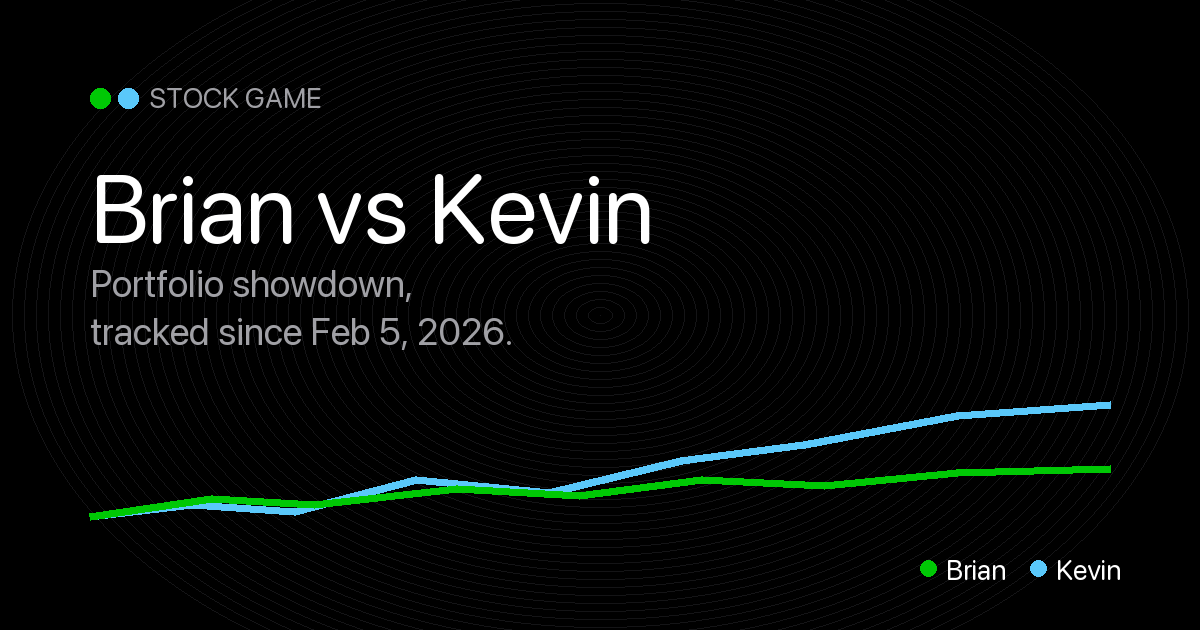
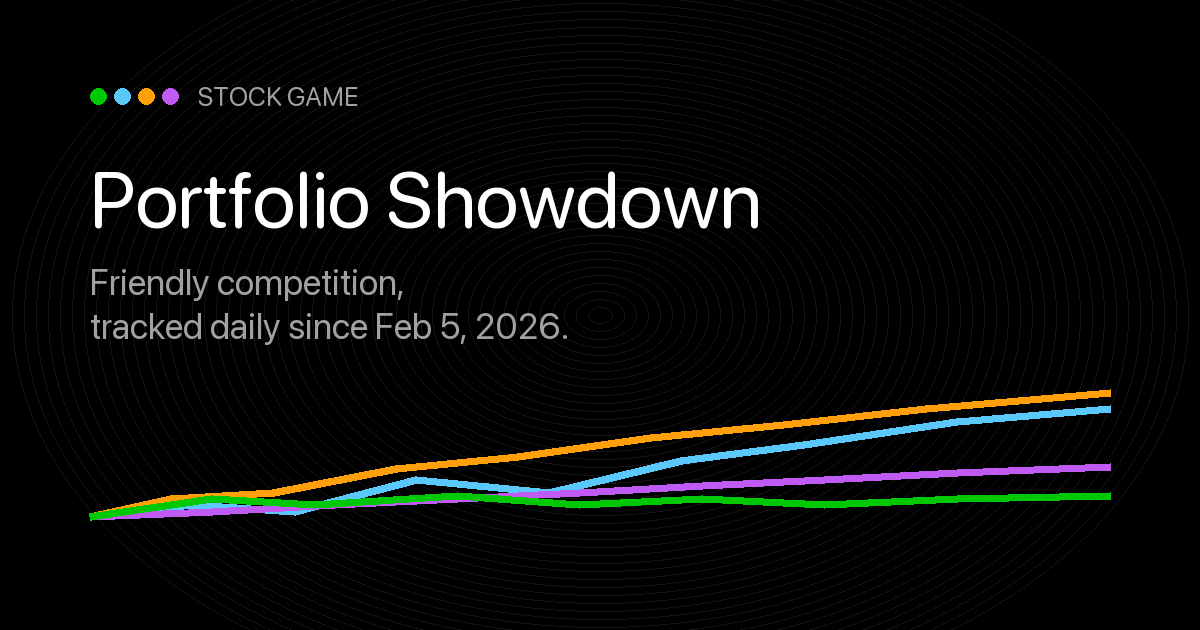
Drop player names from OG card and metadata
Title was "Brian vs Kevin" — accurate when there were two of us, awkward
now that there are four. Generalized to "Stock Game — Portfolio Showdown"
in <title>, OpenGraph, and Twitter card metadata, and rebuilt og.png
with all four player colors in the brand mark plus four diverging lines
(Rick orange leading, Kevin blue, Lee purple, Brian green).

This way the link preview stays correct as players come and go without
having to redo the metadata each time.

Note: iMessage caches preview cards on Apple's servers for ~24h, so
already-sent messages keep showing the old card until Apple refreshes.
New shares of the URL pick up the new card immediately.

diff --git a/app/layout.tsx b/app/layout.tsx
@@ -18,9 +18,9 @@ const SITE_URL = siteUrl();
 
 export const metadata: Metadata = {
   metadataBase: new URL(SITE_URL),
-  title: "Stock Game — Brian vs Kevin",
+  title: "Stock Game — Portfolio Showdown",
   description:
-    "A friendly portfolio showdown between Brian and Kevin, tracked daily since Feb 5, 2026.",
+    "A friendly stock-picking competition tracked daily since Feb 5, 2026.",
   manifest: "/manifest.webmanifest",
   appleWebApp: {
     capable: true,
@@ -33,23 +33,23 @@ export const metadata: Metadata = {
   openGraph: {
     type: "website",
     siteName: "Stock Game",
-    title: "Stock Game — Brian vs Kevin",
+    title: "Stock Game — Portfolio Showdown",
     description:
-      "Portfolio showdown, tracked daily since Feb 5, 2026. Robinhood-style charts, who's winning, what's driving it.",
+      "A friendly stock-picking competition tracked daily since Feb 5, 2026. Robinhood-style charts, who's winning, what's driving it.",
     images: [
       {
         url: "/og.png",
         width: 1200,
         height: 630,
-        alt: "Stock Game — Brian vs Kevin",
+        alt: "Stock Game — Portfolio Showdown",
       },
     ],
   },
   twitter: {
     card: "summary_large_image",
-    title: "Stock Game — Brian vs Kevin",
+    title: "Stock Game — Portfolio Showdown",
     description:
-      "Portfolio showdown, tracked daily since Feb 5, 2026.",
+      "A friendly stock-picking competition tracked daily since Feb 5, 2026.",
     images: ["/og.png"],
   },
   icons: {

diff --git a/scripts/make-og.py b/scripts/make-og.py
@@ -9,6 +9,8 @@ W, H = 1200, 630
 BG = (0, 0, 0)
 BRIAN = (0, 200, 5)
 KEVIN = (90, 200, 250)
+RICK = (255, 159, 10)
+LEE = (191, 90, 242)
 FG = (255, 255, 255)
 DIM = (160, 160, 165)
 
@@ -55,26 +57,26 @@ def main():
                   for p in pts]
         draw.line(scaled, fill=color, width=width, joint="curve")
 
+    # 4 diverging lines — winner most upward, others varied
+    line([(0.00, 0.85), (0.08, 0.74), (0.18, 0.70), (0.30, 0.55), (0.42, 0.48),
+          (0.55, 0.36), (0.68, 0.28), (0.82, 0.18), (1.00, 0.08)], RICK)
     line([(0.00, 0.85), (0.10, 0.78), (0.20, 0.82), (0.32, 0.62), (0.45, 0.70),
-          (0.58, 0.50), (0.70, 0.40), (0.85, 0.22), (1.00, 0.15)], KEVIN)
-    line([(0.00, 0.85), (0.12, 0.74), (0.22, 0.78), (0.36, 0.68), (0.48, 0.72),
-          (0.60, 0.62), (0.72, 0.66), (0.85, 0.58), (1.00, 0.55)], BRIAN)
+          (0.58, 0.50), (0.70, 0.40), (0.85, 0.26), (1.00, 0.18)], KEVIN)
+    line([(0.00, 0.85), (0.12, 0.82), (0.24, 0.78), (0.36, 0.74), (0.48, 0.70),
+          (0.60, 0.66), (0.72, 0.62), (0.85, 0.58), (1.00, 0.54)], LEE)
+    line([(0.00, 0.85), (0.12, 0.74), (0.22, 0.78), (0.36, 0.72), (0.48, 0.78),
+          (0.60, 0.74), (0.72, 0.78), (0.85, 0.74), (1.00, 0.72)], BRIAN)
 
-    # Top-left mini-mark (two dots = the icon motif)
-    draw.ellipse((90, 88, 110, 108), fill=BRIAN)
-    draw.ellipse((118, 88, 138, 108), fill=KEVIN)
-    draw.text((150, 80), "STOCK GAME", fill=DIM, font=font(28, bold=True))
+    # Top-left mini-mark (four dots = the icon motif)
+    for i, c in enumerate([BRIAN, KEVIN, RICK, LEE]):
+        x = 90 + i * 24
+        draw.ellipse((x, 88, x + 16, 104), fill=c)
+    draw.text((90 + 4 * 24 + 12, 80), "STOCK GAME", fill=DIM, font=font(26, bold=True))
 
     # Headline
-    draw.text((90, 150), "Brian vs Kevin", fill=FG, font=font(96, bold=True))
-    draw.text((90, 260), "Portfolio showdown,", fill=DIM, font=font(38))
-    draw.text((90, 308), "tracked since Feb 5, 2026.", fill=DIM, font=font(38))
-
-    # Bottom-right legend
-    draw.ellipse((W - 280, H - 70, W - 264, H - 54), fill=BRIAN)
-    draw.text((W - 254, H - 78), "Brian", fill=FG, font=font(28, bold=True))
-    draw.ellipse((W - 170, H - 70, W - 154, H - 54), fill=KEVIN)
-    draw.text((W - 144, H - 78), "Kevin", fill=FG, font=font(28, bold=True))
+    draw.text((90, 150), "Portfolio Showdown", fill=FG, font=font(80, bold=True))
+    draw.text((90, 260), "Friendly competition,", fill=DIM, font=font(36))
+    draw.text((90, 304), "tracked daily since Feb 5, 2026.", fill=DIM, font=font(36))
 
     img.save(OUT, format="PNG", optimize=True)
     print(f"Wrote {OUT} ({W}x{H})")